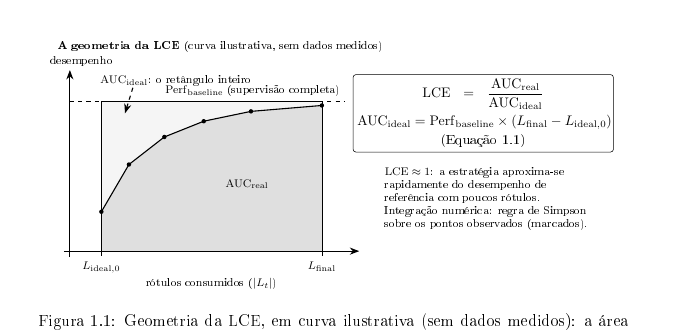
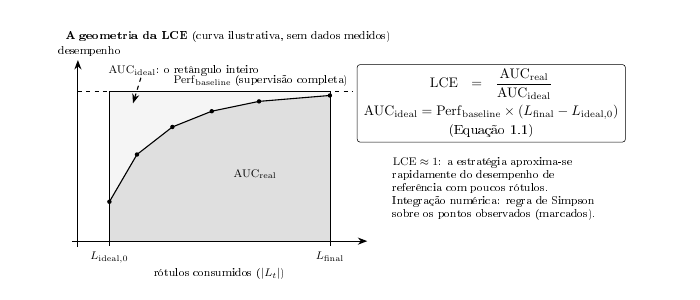
Apêndice A: passe de excelência (forma, propriedades nomeadas, medidas reais)
Ordem do autor: o mesmo passe do Apêndice B, em loop até excelência.

a1-lce/texto.tex (conteúdo técnico intacto): título com estrangeirismo em
itálico (texorpdfstring); a Definição abre dizendo para que a LCE serve;
'MESMO' em caixa alta vira \emph{mesmo}; as 4 propriedades saem do
parágrafo '(i)...(iv)' para lista nomeada (Imagem; Invariância de escala,
com justificativa de uma linha; Comparabilidade entre tetos; Dependência
do intervalo); o símbolo T do Cap.3 sai da Definição (autocontenção);
legenda da figura sem a fórmula repetida (prosa, sem redundância).

esq-lce: caixa da fórmula 64->66mm — o overfull interno de 1,89pt acusou
que o mbox mede ~64,7mm em corpo 12.

Medida real confirmada: textwidth do ppginf = 16cm (a4, 2+2cm + lombada
1cm); invólucros de prévia ajustados. Apêndices A e B compilam com 0
erros e 0 overfull em corpo 12 nas medidas reais.

Claude-Session: https://claude.ai/code/session_01XdLdLTUXQGvJT9rjXrz2Gq

diff --git a/a1-lce/texto.tex b/a1-lce/texto.tex
@@ -1,12 +1,15 @@
-\chapter{Métrica Learning Curve Efficiency (LCE)}
+\chapter{Métrica \texorpdfstring{\textit{Learning Curve Efficiency}}{Learning Curve Efficiency} (LCE)}
 \label{ap:lce}
 
 \section{Definição}
 
-Seja uma execução de aprendizado ativo que produz a curva
+A LCE resume uma curva de aprendizado inteira em um único escalar, para que
+estratégias de aprendizado ativo possam ser comparadas e ordenadas por um
+número. Seja uma execução de aprendizado ativo que produz a curva
 $\{(n_k, m_k)\}_{k=1}^{K}$, em que $n_k$ é o número de instâncias rotuladas na
 iteração $k$ (estritamente crescente) e $m_k$ a métrica de interesse (nesta
-tese, Macro F1 no conjunto de teste fixo $T$). Define-se:
+tese, Macro F1, medido no conjunto de teste, fixo ao longo das iterações).
+Define-se:
 \begin{equation}
 \mathrm{LCE} \;=\;
 \frac{\displaystyle \int_{n_1}^{n_K} m(n)\, dn}
@@ -16,7 +19,7 @@ tese, Macro F1 no conjunto de teste fixo $T$). Define-se:
 em que a integral do numerador ($\mathrm{AUC}_{\mathrm{real}}$) é calculada
 numericamente pela regra composta de Simpson sobre os pontos observados (com
 recuo para a regra do trapézio quando $K=2$) e
-$\mathrm{Perf}_{\mathrm{baseline}}$ é o desempenho do MESMO classificador
+$\mathrm{Perf}_{\mathrm{baseline}}$ é o desempenho do \emph{mesmo} classificador
 treinado com supervisão completa do \textit{pool}. O denominador é a área da curva
 ideal: desempenho de referência atingido instantaneamente no início do
 processo ($L_{\mathrm{ideal},0} = n_1$). A Figura~\ref{fig:ap-lce-geometria}
@@ -28,9 +31,9 @@ ilustra essa geometria.
     \caption{Geometria da LCE, em curva ilustrativa (sem dados medidos): a
     área sob a curva de aprendizado observada ($\mathrm{AUC}_{\mathrm{real}}$,
     integrada pela regra de Simpson sobre os pontos marcados) é normalizada
-    pelo retângulo da curva ideal,
-    $\mathrm{AUC}_{\mathrm{ideal}}=\mathrm{Perf}_{\mathrm{baseline}}\times
-    (L_{\mathrm{final}}-L_{\mathrm{ideal},0})$. Na notação da
+    pelo retângulo da curva ideal ($\mathrm{AUC}_{\mathrm{ideal}}$), de
+    altura $\mathrm{Perf}_{\mathrm{baseline}}$ e base
+    $L_{\mathrm{final}}-L_{\mathrm{ideal},0}$. Na notação da
     Equação~\ref{eq:ap-lce}, $L_{\mathrm{ideal},0}=n_1$ e
     $L_{\mathrm{final}}=n_K$.}
     \label{fig:ap-lce-geometria}
@@ -38,16 +41,22 @@ ilustra essa geometria.
 
 \section{Propriedades}
 
-(i) $\mathrm{LCE} \in (0, 1]$ quando $m_k \le \mathrm{Perf}_{\mathrm{baseline}}$
-para todo $k$; valores maiores indicam aproximação mais rápida do teto.
-(ii) É invariante a transformações afins do eixo $n$ (mudança de unidade de
-orçamento). (iii) Ao normalizar pelo teto do próprio par (classificador,
-conjunto), e não pelo máximo teórico da métrica, permite comparar
-estratégias entre classificadores de tetos distintos: um classificador fraco
-bem servido pela estratégia pode ter LCE maior que um classificador forte mal
-servido. (iv) Depende do intervalo $[n_1, n_K]$: comparações exigem execuções
-com o mesmo orçamento e o mesmo $L_0$, condição imposta em todos os desenhos
-desta tese.
+\begin{itemize}
+  \item \textbf{Imagem}: $\mathrm{LCE} \in (0, 1]$ quando
+  $m_k \le \mathrm{Perf}_{\mathrm{baseline}}$ para todo $k$; valores
+  maiores indicam aproximação mais rápida do teto.
+  \item \textbf{Invariância de escala}: transformações afins do eixo $n$
+  (mudança de unidade do orçamento) não alteram a LCE, porque numerador e
+  denominador escalam pelo mesmo fator.
+  \item \textbf{Comparabilidade entre tetos distintos}: ao normalizar pelo
+  teto do próprio par (classificador, conjunto), e não pelo máximo teórico
+  da métrica, a LCE permite comparar estratégias entre classificadores de
+  tetos distintos: um classificador fraco bem servido pela estratégia pode
+  ter LCE maior que um classificador forte mal servido.
+  \item \textbf{Dependência do intervalo}: a LCE depende de $[n_1, n_K]$;
+  comparações exigem execuções com o mesmo orçamento e o mesmo $L_0$,
+  condição imposta em todos os desenhos desta tese.
+\end{itemize}
 
 \section{Relação com a ALC}
 

diff --git a/3-metodo/esquemas-propostos/esq-lce.tex b/3-metodo/esquemas-propostos/esq-lce.tex
@@ -67,9 +67,10 @@
     \draw[seta, dashed] (1.6,4.15) -- (1.4,3.5);
 
     % ---------------- painel direito: fórmula e leitura --------------------
-    % 64mm: em corpo 12 (o corpo real da tese) a linha da AUC_ideal media
-    % ~62mm e transbordava a caixa de 58mm — achado do teste em 12pt
-    \node[caixa, text width=64mm] (formula) at (10.5,3.5)
+    % 66mm: em corpo 12 (o corpo real da tese) a linha da AUC_ideal mede
+    % ~64,7mm e transbordava a caixa original de 58mm — achado e medido
+    % no teste em 12pt (o overfull interno acusou o valor exato)
+    \node[caixa, text width=66mm] (formula) at (10.5,3.5)
         {$\displaystyle \mathrm{LCE}=\frac{\mathrm{AUC}_{\mathrm{real}}}{\mathrm{AUC}_{\mathrm{ideal}}}$\\[3pt]
          \mbox{$\mathrm{AUC}_{\mathrm{ideal}}=\mathrm{Perf}_{\mathrm{baseline}}\times(L_{\mathrm{final}}-L_{\mathrm{ideal},0})$}\\[2pt]
          (Equação~\ref{eq:ap-lce})};

diff --git a/3-metodo/esquemas-propostos/NOTA-esquemas.md b/3-metodo/esquemas-propostos/NOTA-esquemas.md
@@ -226,6 +226,33 @@ em corpo 10 — re-verificar em corpo 12 ANTES de qualquer inserção na tese.
 As prévias `preview-esq-ag-envelope.png` e `preview-esq-lce.png` agora são
 renders em corpo 12.
 
+## Passe de excelência no Apêndice A (ordem do autor, 2026-08-23)
+
+Extensão do passe do Apêndice B ao `a1-lce/texto.tex` (mesmo goal: figura +
+conteúdo + fluidez + compreensão + rigor):
+- **Forma/humanização**: título com o estrangeirismo em itálico
+  (`\textit{Learning Curve Efficiency}` via `\texorpdfstring`); "MESMO
+  classificador" em caixa alta virou ênfase acadêmica (`\emph{mesmo}`); a
+  Definição agora ABRE dizendo para que a métrica serve (um escalar para
+  comparar e ordenar estratégias) antes do "Seja uma execução...".
+- **Compreensão**: as quatro propriedades, antes espremidas num parágrafo
+  "(i)...(iv)", viraram lista com nomes (Imagem; Invariância de escala;
+  Comparabilidade entre tetos distintos; Dependência do intervalo); a
+  invariância ganhou a justificativa de uma linha (numerador e denominador
+  escalam pelo mesmo fator).
+- **Autocontenção**: o símbolo $T$ (notação do Cap. 3) saiu da Definição
+  ("conjunto de teste, fixo ao longo das iterações").
+- **Legenda da figura**: repetia a fórmula da AUC_ideal (que já está na
+  caixa da figura e na Equação A.1) — virou prosa ("de altura Perf, base
+  L_final − L_ideal,0"), removendo a redundância e um overfull de legenda.
+- **Medidas reais confirmadas**: o ppginf tem textwidth de 16cm (a4,
+  margens 2+2cm + lombada 1cm) — os invólucros de prévia foram ajustados
+  de 15cm para 16cm. Com isso, Apêndices A e B compilam com **0 erros e
+  0 overfull**. O último overfull (1,89pt) estava DENTRO do nó da fórmula
+  do esq-lce (o `\mbox` mede ~64,7mm): caixa alargada para 66mm.
+- Sem mudança de conteúdo técnico: equação, propriedades (afirmações),
+  relação com a ALC e a frase da implementação de referência intactas.
+
 ## Loop de melhoria com goal (registro, como a tarefa pede)
 
 Goal: "muito boa e ilustrativa" = fluxo inequívoco, rótulos claros, coerente

diff --git a/coordenacao/caixa/20260823-2130_banca_principal_entrega_passe-apendice-a-lce.aberta.md b/coordenacao/caixa/20260823-2130_banca_principal_entrega_passe-apendice-a-lce.aberta.md
@@ -1,0 +1,30 @@
+---
+de: banca
+para: principal
+tipo: tarefa
+acao_esperada: integrar na main, EM BLOCO, as três peças pendentes desta branch — Apêndice B (entrega 2100), Apêndice A (esta) e as correções 12pt dos dois esquemas — validando com a compilação completa (DoD IX)
+referencia: a1-lce/texto.tex + esq-lce.tex · branch banca/esquemas-tikz-metodo · ordem do autor (2026-08-23)
+criada_em: 2026-08-23T21:30:00Z
+---
+Conclusão do passe no Apêndice A (claim 2110; ordem do autor: "faça o mesmo
+para o apêndice A"). Ele já recebeu as 2 páginas renderizadas.
+
+O que mudou em a1-lce/texto.tex (forma e didática; conteúdo técnico
+intacto — equação, propriedades e relação com a ALC dizem o mesmo):
+1. Título com o estrangeirismo em itálico (via texorpdfstring).
+2. A Definição abre dizendo para que a LCE serve (escalar único para
+   comparar e ordenar estratégias) antes do "Seja uma execução...".
+3. "MESMO classificador" (caixa alta) → \emph{mesmo}.
+4. As 4 propriedades saíram do parágrafo "(i)...(iv)" para lista nomeada
+   (Imagem; Invariância de escala — com a justificativa de uma linha;
+   Comparabilidade entre tetos; Dependência do intervalo).
+5. Autocontenção: o símbolo T (notação do Cap. 3) saiu da Definição.
+6. Legenda da figura sem a fórmula repetida (virou prosa; remove
+   redundância e um overfull).
+7. esq-lce: caixa da fórmula 66mm (o mbox mede ~64,7mm em corpo 12 — o
+   overfull interno acusou o valor exato).
+
+MEDIDA IMPORTANTE para suas integrações: o textwidth real do ppginf é
+16cm (a4, 2+2cm + lombada 1cm) — meus invólucros de prévia agora usam
+isso. Apêndices A e B compilam aqui com 0 erros e 0 overfull em corpo 12.
+A compilação completa da tese continua sendo o seu teste de integração.
